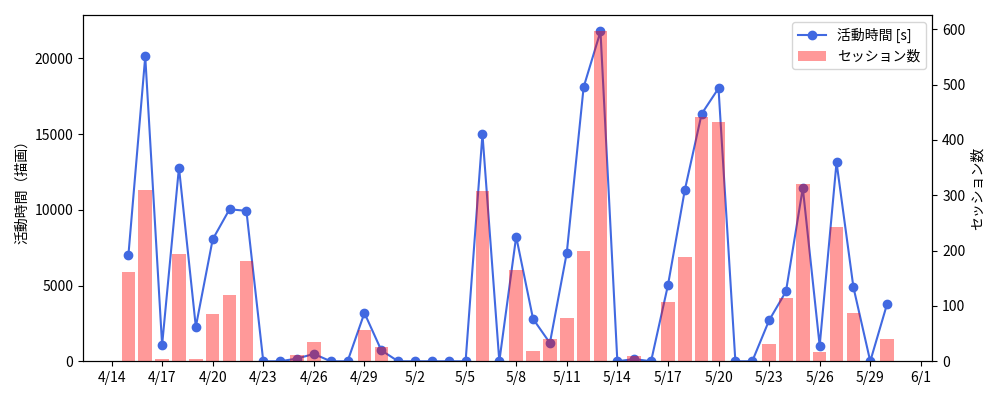
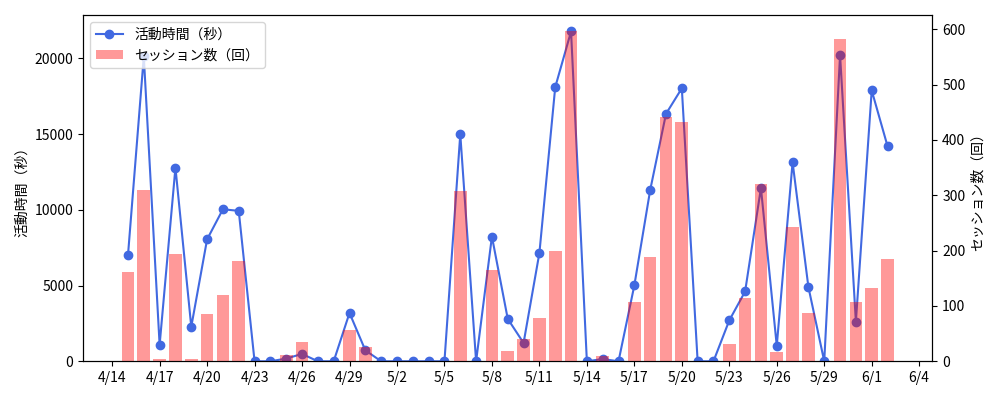
7th

diff --git a/docs/du2025/7.md b/docs/du2025/7.md
@@ -405,7 +405,7 @@ line = ax1.plot(
     marker="o",
     label="time [s]"
 )
-ax1.set_ylabel("活動時間（描画）")
+ax1.set_ylabel("活動時間（秒）")
 ax1.set_ylim(0)
 
 # 右y軸を作成
@@ -419,21 +419,21 @@ bar = ax2.bar(
     alpha=0.4,
     label="sessions"
 )
-ax2.set_ylabel("セッション数")
+ax2.set_ylabel("セッション数（回）")
 
 # x軸フォーマットと間隔
 ax1.xaxis.set_major_formatter(mdates.DateFormatter("%-m/%-d"))
 ax1.xaxis.set_major_locator(mdates.DayLocator(interval=3))
 
 # 凡例をまとめて表示（折れ線とバー両方）
-ax1.legend([line[0], bar], ["活動時間 [s]", "セッション数"])
+ax1.legend([line[0], bar], ["活動時間（秒）", "セッション数（回）"], loc="upper left")
 
 # レイアウト調整・表示
 fig.tight_layout()
 plt.show()
 ```
 
-![調整後の複合グラフ](img/7-4.png){: .wide-image }
+![調整後の複合グラフ](./img/7-4.png){: .wide-image }
 
 !!! note "複数の凡例をまとめて表示"
 
@@ -473,7 +473,7 @@ ax.plot(
     marker="o",
     label="time [s]"
 )
-ax.set_ylabel("活動時間（描画）")
+ax.set_ylabel("活動時間（秒）")
 ax.set_ylim(0)
 
 # x軸フォーマットと間隔
@@ -506,21 +506,59 @@ plt.show()
 
 !!! tip "演習 7-1"
 
-    TBA
+    活動ログデータの CSV ファイルを読み込み、セッション効率（1セッションあたりの活動時間）を計算してください。その後、欠損値処理をしたうえで、セッション効率の時間変化を折れ線グラフで可視化してください。
 
 !!! tip "演習 7-2"
 
-    TBA
+    活動ログデータの CSV ファイルを読み込み、曜日別の活動時間を計算してください。その後、曜日ごとの活動時間の平均を棒グラフで可視化してください。
+
+??? example "曜日情報取得のヒント"
+
+    日付データから曜日情報を取得するには、[`DatetimeIndex.day_name()`](https://pandas.pydata.org/docs/reference/api/pandas.DatetimeIndex.day_name.html) 関数または [`DatetimeIndex.dayofweek`](https://pandas.pydata.org/docs/reference/api/pandas.DatetimeIndex.dayofweek.html) プロパティを使用します。例えば、インデックスに日付が入った `df` という名前の `DataFrame` があり、各日付の曜日を取得して `"weekday"` という名前の列にその情報を格納したい場合は、以下のようにします。
+
+    ```python
+    df["weekday"] = df.index.day_name()
+    print(df['weekday'].head())
+    ```
+
+    ```title="Output"
+    date
+    2025-04-15      Tuesday
+    2025-04-16    Wednesday
+    2025-04-17     Thursday
+    2025-04-18       Friday
+    2025-04-19     Saturday
+    Name: weekday, dtype: object
+    ```
+
+### 活動ログデータ
+
+??? info "活動ログデータについて"
+
+    CHIKUWA Editor の「統計情報」のウィンドウ下部から、以下の3つの CHIKUAW Editor 利用ログデータをダウンロードできるようになっていますので、演習や課題に活用してください。
+
+    - **自分のログデータ**: あなた自身の CHIKUWA Editor 利用ログです。日別の「活動時間（秒）」と「セッション数（回）」が CSV 形式でダウンロードできます。ここで「セッション数」は、「保存」や「実行」など、エディタで何らかの行動を起こした回数に相当します。また、「活動時間」は推定値となっており、実際の活動時間とは異なる可能性があります。
+    - **ID: 0000001 のログデータ**: 「ID: 0000001」（加納）の CHIKUWA Editor 利用ログです。日別の「活動時間」と「セッション数」が含まれており、学習目的であれば自由に利用可能です。
+    - **全体のログデータ（日別総計）**: 日別の「活動時間」「セッション数」の総計、および「アクティブユーザ数（人）」が含まれる、匿名化処理済みのデータです。匿名性を担保するため、アクティブユーザ数が3人以下の場合は「アクティブユーザ数」を `NaN` としています。
+
+??? warning "ログデータの利用にあたって"
+
+    ログデータには、あなた自身の CHIKUWA Editor 利用ログや、クラス全体の統計情報（総計、アクティブユーザ数）が含まれています。このデータは、**学習目的（分析・可視化・傾向の考察）においてのみに使用**してください。クラス全体の統計情報は、**個人を特定できないように集計**されていますが、他人を推測したり評価するような使い方は決してしないようにしてください。
+
+    なお、このデータは「自分の学習傾向を振り返る」「集団の傾向と比較する」ために用意されています。**他者との競争ではなく、より良い学びのヒントを見つける材料**として活用してください。
+
+    ※ 授業外では CHIKUWA Editor をあまり使用していない場合は、自身のログデータの分析が難しいかもしれません。そのような場合は、ID: 0000001（加納）のログデータをダウンロードして分析の練習に活用してください。
 
 ## 授業アンケート
 
 TBA
 
-<!-- <div style="text-align: center;">
-<a href="https://forms.office.com/r/CiHP5t6BGE">
-<img class="skip-glightbox" src="../qr6.png" alt="授業アンケート" width="400px">
+<div style="text-align: center;">
+<a href="https://forms.office.com/r/17r2hR8DYS">
+<img class="skip-glightbox" src="../qr7.png" alt="授業アンケート" width="400px">
+
 </a>
 <br>
-<a href="https://forms.office.com/r/GpWK0XfShP">https://forms.office.com/r/GpWK0XfShP</a><br>
+<a href="https://forms.office.com/r/17r2hR8DYS">https://forms.office.com/r/17r2hR8DYS</a><br>
 （回答期限：2025 年 6 月 6 日 23:59）
-</div> -->
+</div>
